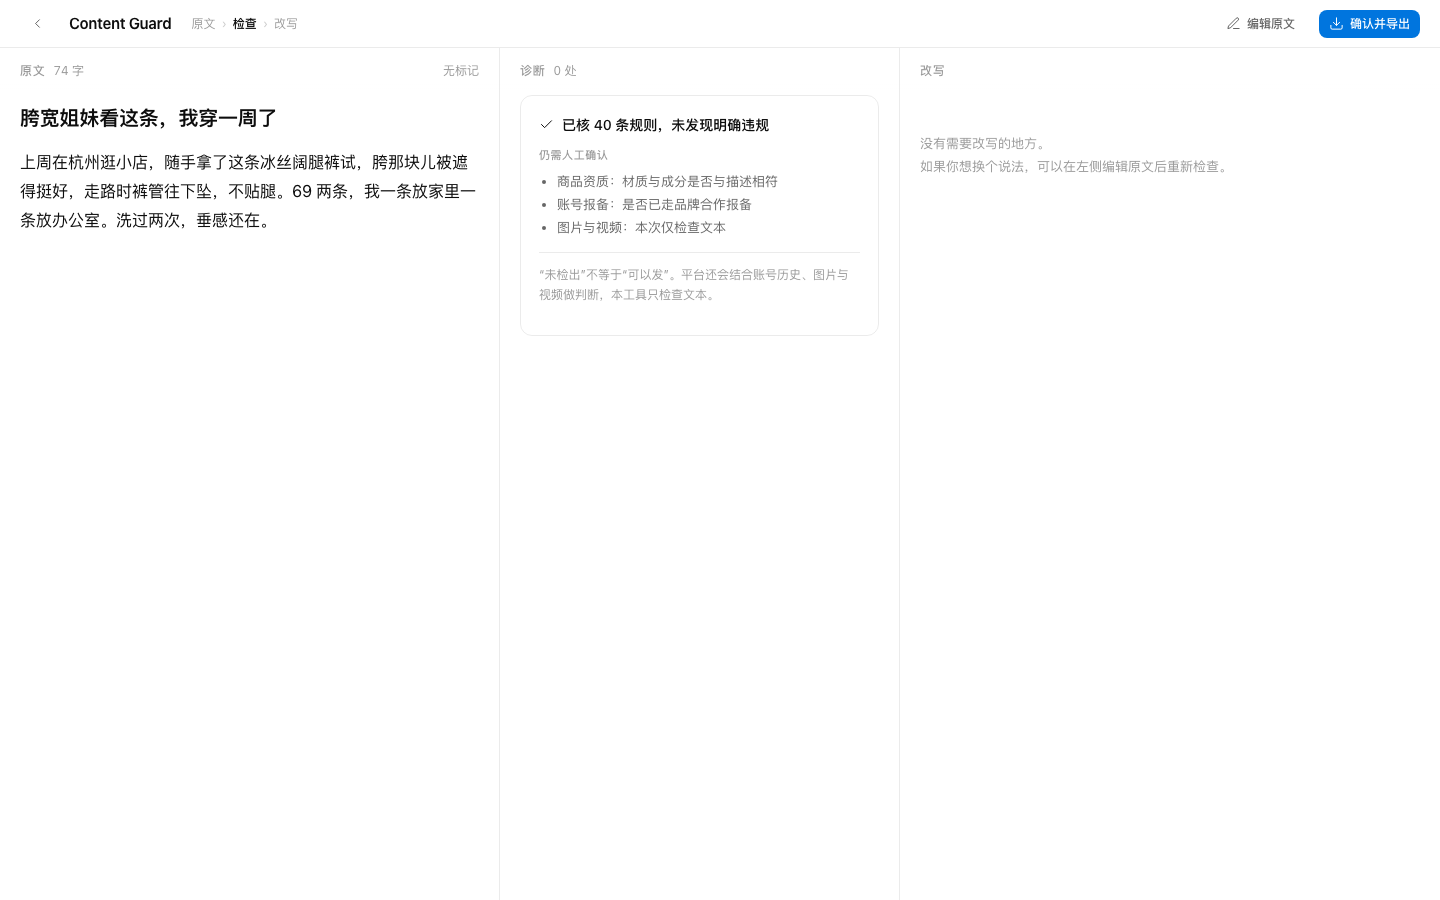
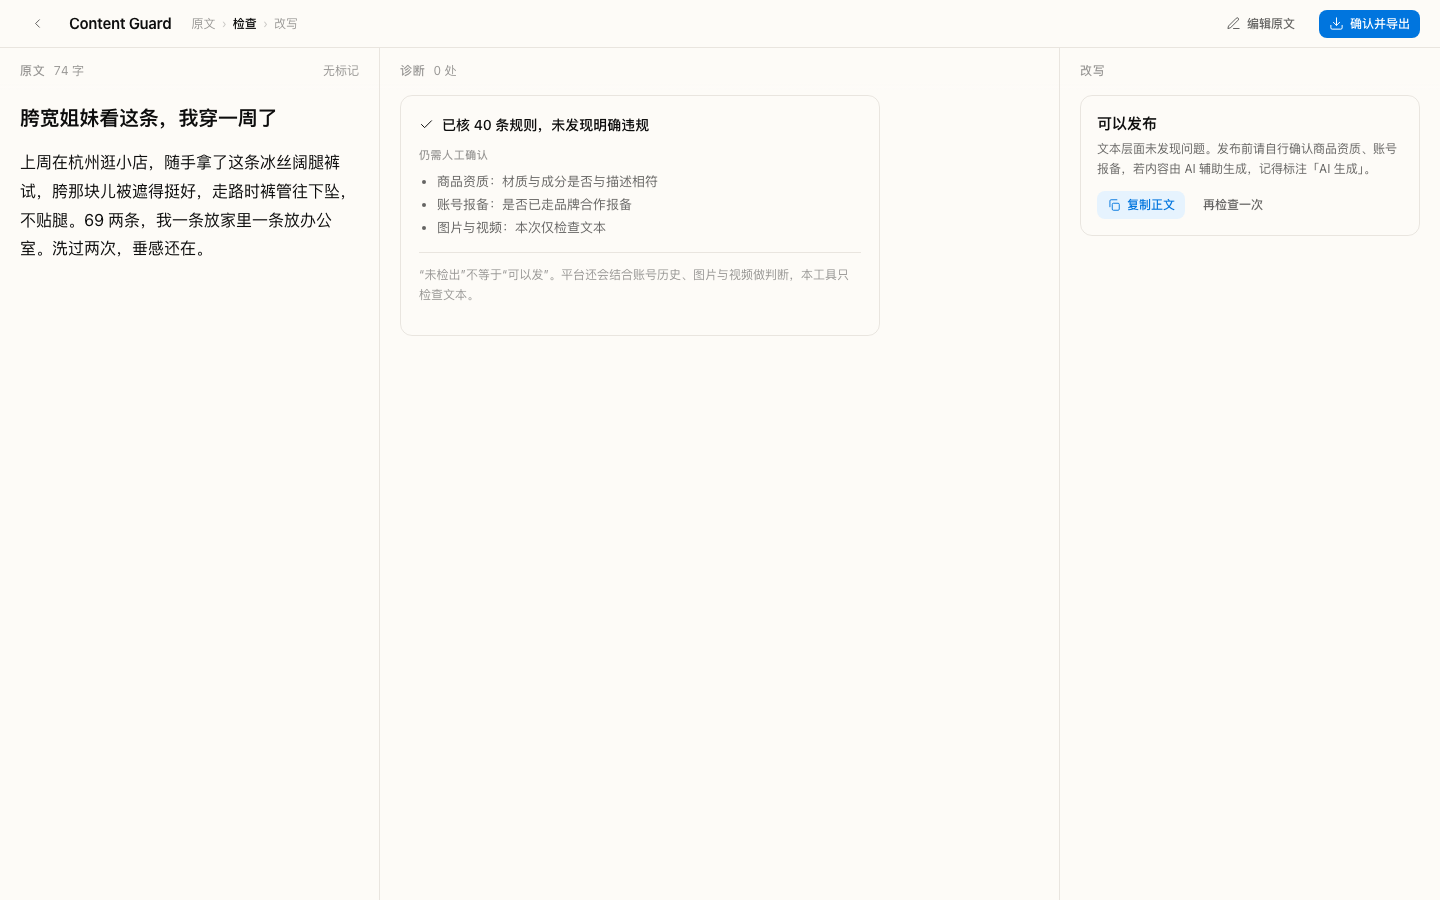
design: 暖色底、左右等宽中间最宽、进入即自动改写，加底部状态条

diff --git a/designs/prototype/app.jsx b/designs/prototype/app.jsx
@@ -165,7 +165,9 @@ function Entry({ onStart }) {
           {RECENT.map((r) => (
             <div className="recent-row" key={r.title} onClick={() => onStart(r.n ? "bad" : "clean")}>
               <span className="t">{r.title}</span>
-              <span className="n">{r.n ? `${r.n} 处问题` : "通过"}</span>
+              <span className="n" style={r.n ? undefined : { color: "var(--ink-40)" }}>
+                {r.n ? `${r.n} 处问题` : "通过"}
+              </span>
               <span className="d">{r.date}</span>
             </div>
           ))}
@@ -296,8 +298,8 @@ function DiagnosisColumn({ sample, activeN, onPick }) {
 
 /* ---------- 右栏：改写 ---------- */
 function RewriteColumn({ sample, stage, onRewrite }) {
-  const [progress, setProgress] = useState(stage === "rewritten");
-  useEffect(() => setProgress(stage === "rewritten"), [stage]);
+  const loading = stage === "rewriting";
+  const done = stage === "rewritten";
 
   if (!sample.violations.length) {
     return (
@@ -306,7 +308,16 @@ function RewriteColumn({ sample, stage, onRewrite }) {
           <h3>改写</h3>
         </div>
         <div className="panel-pad">
-          <p className="empty-hint">没有需要改写的地方。<br />如果你想换个说法，可以在左侧编辑原文后重新检查。</p>
+          <div className="summary">
+            <div className="big">可以发布</div>
+            <div className="hint">
+              文本层面未发现问题。发布前请自行确认商品资质、账号报备，若内容由 AI 辅助生成，记得标注「AI 生成」。
+            </div>
+            <div className="row">
+              <button className="btn btn-ghost btn-sm"><Icon name="copy" size={14} /> 复制正文</button>
+              <button className="btn btn-text btn-sm">再检查一次</button>
+            </div>
+          </div>
         </div>
       </div>
     );
@@ -318,26 +329,25 @@ function RewriteColumn({ sample, stage, onRewrite }) {
     <div className="col">
       <div className="col-head">
         <h3>改写</h3>
-        <span className="count">{progress ? `下降 100% · ${rw.rounds} 轮` : "未开始"}</span>
+        <span className="count">{done ? `下降 100% · ${rw.rounds} 轮` : loading ? "改写中…" : "待改写"}</span>
       </div>
       <div className="panel-pad">
-        {!progress ? (
+        {loading ? (
           <div className="summary">
-            <div className="big">{sample.violations.length} 处待处理</div>
-            <div className="hint">
-              一键改写会保留价格、规格等事实信息，只改违规表达，改完自动复检。
-            </div>
-            <div className="row">
-              <button className="btn btn-primary" onClick={onRewrite}>
-                <Icon name="arrow" size={14} /> 一键全部改写
-              </button>
-              <button className="btn btn-text btn-sm">逐条改写</button>
+            <div className="big">正在改写 {sample.violations.length} 处…</div>
+            <div className="hint">保留价格、规格等事实信息，只改违规表达，改完自动复检。</div>
+            <div className="skeleton">
+              <span /><span /><span /><span />
             </div>
           </div>
         ) : (
           <>
             <div className="result-bar">
               <Icon name="check" size={14} /> 复检通过：{rw.changes.length} 处已修，剩余 0 处
+              <span style={{ flex: 1 }} />
+              <button className="btn btn-text btn-sm" style={{ color: "var(--blue)" }} onClick={onRewrite}>
+                重新改写
+              </button>
             </div>
             <div className="rewrite-text">
               <div className="title">
@@ -391,7 +401,9 @@ function RewriteColumn({ sample, stage, onRewrite }) {
 function Workbench({ initialSample, initialStage, onBack }) {
   const [sampleKey, setSampleKey] = useState(initialSample || "bad");
   const sample = sampleKey === "bad" ? SAMPLE_BAD : SAMPLE_CLEAN;
-  const [stage, setStage] = useState(initialStage || "checked");
+  const [stage, setStage] = useState(
+    initialStage || (sample.violations.length ? "rewritten" : "checked")
+  );
   const [activeN, setActiveN] = useState(1);
 
   const canConfirm = stage === "rewritten" || !sample.violations.length;
@@ -401,8 +413,19 @@ function Workbench({ initialSample, initialStage, onBack }) {
     setTimeout(() => setStage("rewritten"), 900);
   }
 
+  // 首次进入：先显示复查结果，再自动改写（不再让用户多点一次）
+  const [booting, setBooting] = useState(!initialStage && sample.violations.length > 0);
+  useEffect(() => {
+    if (!booting) return;
+    const t = setTimeout(() => {
+      setStage("rewriting");
+      setTimeout(() => { setStage("rewritten"); setBooting(false); }, 800);
+    }, 400);
+    return () => clearTimeout(t);
+  }, [booting]);
+
   return (
-    <>
+    <div style={{ display: "flex", flexDirection: "column", height: "100%", minHeight: 0 }}>
       <TopBar
         stage={stage === "rewriting" ? "checked" : stage}
         canConfirm={canConfirm}
@@ -423,7 +446,29 @@ function Workbench({ initialSample, initialStage, onBack }) {
         <DiagnosisColumn sample={sample} activeN={activeN} onPick={setActiveN} />
         <RewriteColumn sample={sample} stage={stage} onRewrite={startRewrite} />
       </div>
-    </>
+      <StatusBar sample={sample} stage={stage} />
+    </div>
+  );
+}
+
+/* ---------- 底部状态条 ---------- */
+function StatusBar({ sample, stage }) {
+  return (
+    <div className="statusbar">
+      <span>规则库 {RULE_COUNT} 条</span>
+      <span className="dot">·</span>
+      <span>法条核验 20 / 平台官方 19 / 待补 1</span>
+      <span className="spacer" />
+      {stage === "rewritten" && sample.rewrite ? (
+        <>
+          <span className="mono">tokens 9,254 / 1,198</span>
+          <span className="dot">·</span>
+          <span>耗时 15.7s</span>
+          <span className="dot">·</span>
+        </>
+      ) : null}
+      <span>deepseek-chat</span>
+    </div>
   );
 }
 

diff --git a/designs/prototype/tokens.css b/designs/prototype/tokens.css
@@ -4,10 +4,10 @@
 
 :root {
   /* 画布与表面 */
-  --paper: #f6f5f4;
-  --surface: #ffffff;
-  --line: rgba(0, 0, 0, 0.08);
-  --line-strong: rgba(0, 0, 0, 0.14);
+  --paper: #f3eee6;
+  --surface: #fdfbf7;
+  --line: rgba(60, 40, 20, 0.10);
+  --line-strong: rgba(60, 40, 20, 0.18);
 
   /* 墨色（靠透明度分层，不新增颜色） */
   --ink-100: rgba(0, 0, 0, 0.95);
@@ -235,8 +235,9 @@ button:disabled { cursor: not-allowed; }
 /* ---------- 工作台三栏 ---------- */
 .workbench {
   display: grid;
-  grid-template-columns: 500px 400px 1fr;
-  height: calc(100vh - 48px);
+  grid-template-columns: 380px 1fr 380px;
+  height: 100%;
+  min-height: 0;
   background: var(--surface);
 }
 
@@ -423,7 +424,7 @@ button:disabled { cursor: not-allowed; }
   font-size: 13px;
   line-height: 1.8;
   color: var(--ink-70);
-  background: var(--paper);
+  background: #f7f2ea;
   border-radius: 8px;
   padding: 10px 12px;
   margin: 8px 0 12px;
@@ -446,6 +447,7 @@ button:disabled { cursor: not-allowed; }
 
 /* 无违规覆盖卡 */
 .coverage {
+  max-width: 480px;
   margin: 4px 20px 40px;
   border: 1px solid var(--line);
   border-radius: var(--r-card);
@@ -593,3 +595,47 @@ button:disabled { cursor: not-allowed; }
   .workbench { grid-template-columns: 1fr; height: auto; }
   .col { border-right: 0; border-bottom: 1px solid var(--line); }
 }
+
+
+/* ---------- 改写中的骨架 ---------- */
+.skeleton {
+  margin-top: 14px;
+  display: flex;
+  flex-direction: column;
+  gap: 8px;
+}
+
+.skeleton span {
+  display: block;
+  height: 12px;
+  border-radius: 4px;
+  background: #ece5da;
+  animation: pulse 1.2s ease-in-out infinite;
+}
+
+.skeleton span:nth-child(2) { width: 92%; }
+.skeleton span:nth-child(3) { width: 78%; }
+.skeleton span:nth-child(4) { width: 86%; }
+
+@keyframes pulse {
+  0%, 100% { opacity: 1; }
+  50% { opacity: 0.45; }
+}
+
+
+/* ---------- 底部状态条 ---------- */
+.statusbar {
+  height: 28px;
+  flex: none;
+  display: flex;
+  align-items: center;
+  gap: 10px;
+  padding: 0 20px;
+  font-size: 11px;
+  color: var(--ink-40);
+  background: var(--surface);
+  border-top: 1px solid var(--line);
+}
+
+.statusbar .dot { color: var(--ink-20); }
+.statusbar .spacer { flex: 1; }

diff --git a/docs/ui-structure.md b/docs/ui-structure.md
@@ -384,3 +384,17 @@ StatusBar        底部：字数、模型、tokens、耗时
 ### 14.6 宽度
 
 1440 下：左 500 / 中 400 / 右 444（+ 24px 外边距）。1280 下等比压缩，<1024 单列堆叠。
+
+---
+
+## 15. 修订 v3（2026-10-25 · 第一轮原型反馈后）
+
+| 反馈 | 改法 |
+|---|---|
+| 底色太白 | 画布 `#f3eee6`、面板 `#fdfbf7`，描边改为暖调 `rgba(60,40,20,.10)`；条款块 `#f7f2ea` |
+| 左栏太宽，中间要更宽，左右等宽 | 从 `500 / 400 / 1fr` 改为 **`380 / 1fr / 380`**（1440 下中栏约 676） |
+| 改写结果不该再点一次 | **进入工作台即自动改写**：先给检查结果，400ms 后进入"别名改写中"（骨架屏），800ms 后直接出改写全文；右栏不再有"一键改写"主按钮，只保留一个不显眼的「重新改写」 |
+
+**连带调整**
+- 无违规态：右栏不再是一句空提示，改为「可以发布」卡（含资质/报备/AI 标注提醒 + 复制正文）。
+- 底部加 28px 状态条：规则库条数与三档状态、tokens、耗时、模型名——既填空白，也是 demo 时可讲的成本证据。
